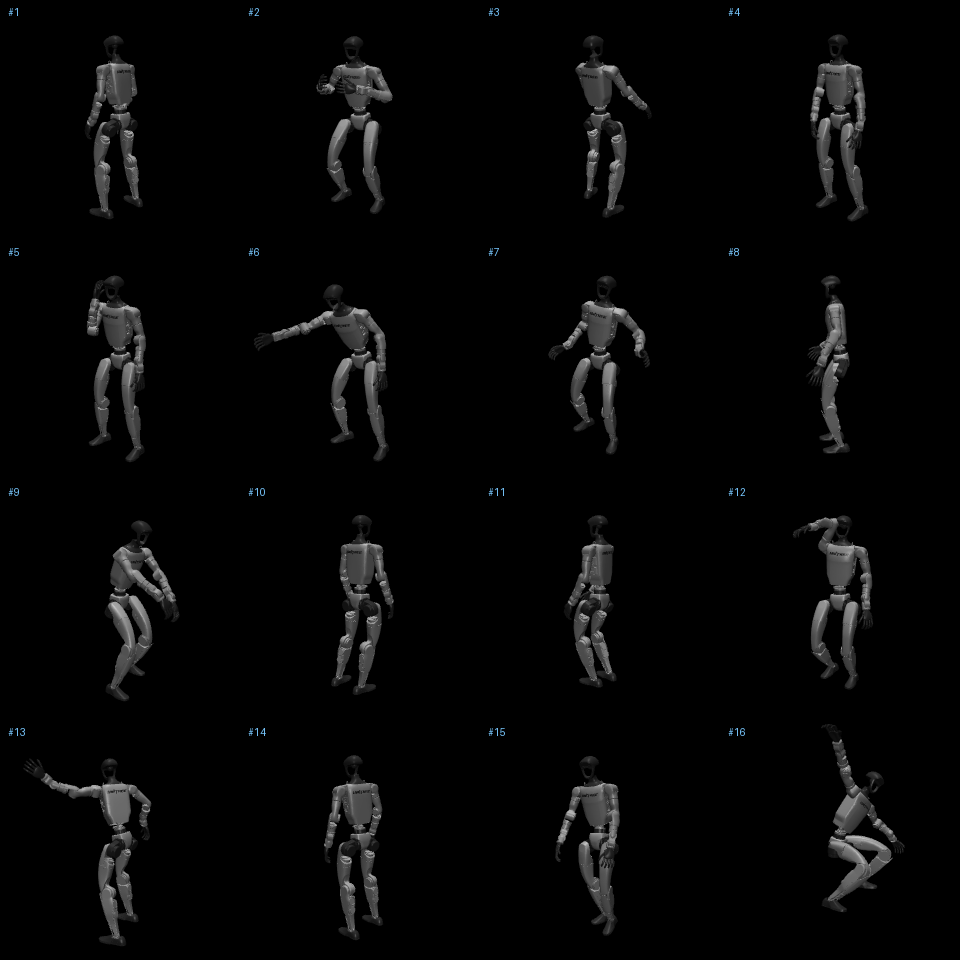
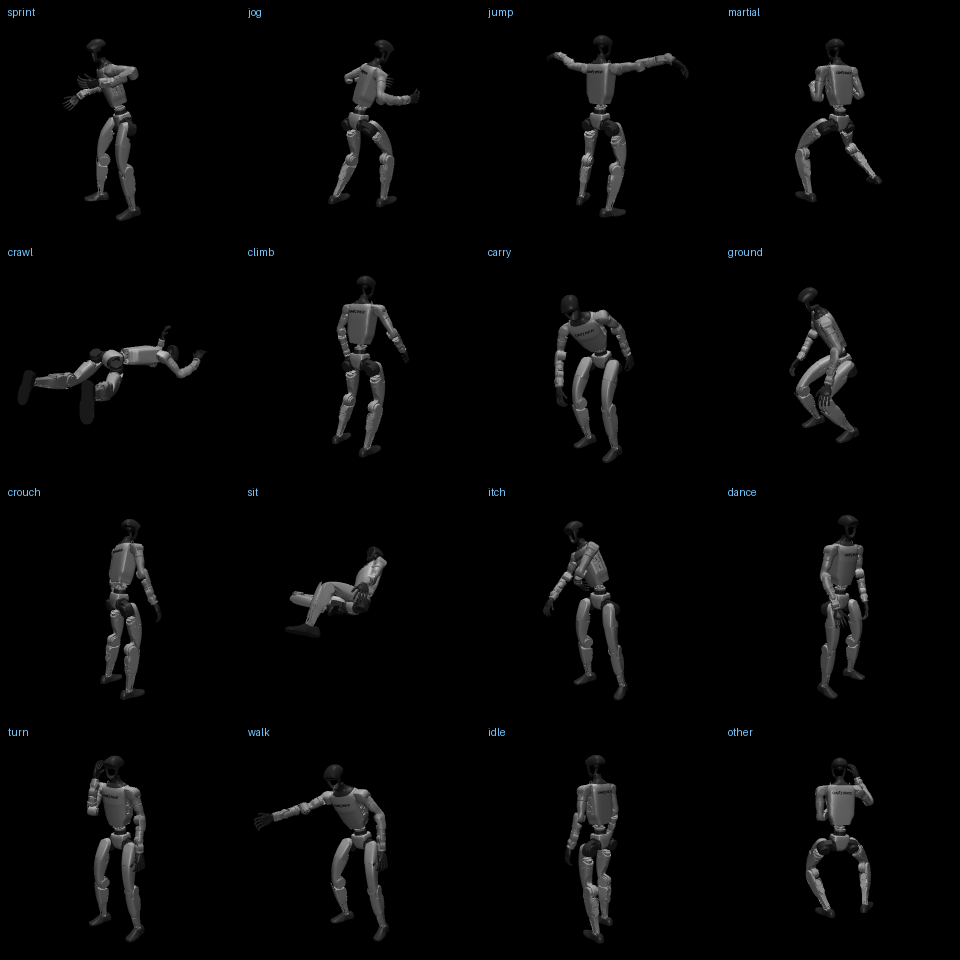
docs: 16 different motion categories in the header GIF, each the most dynamic of its kind
The header grid no longer samples clips at random. scripts/pick_grid_clips.py assigns every clip of the
evaluation subset a category from its name, measures amplitude from the reference data (peak root speed by
finite differences at 50 Hz, root height range, total joint range), normalises the three axes and takes the
most dynamic clip of each category first. Result: 16 clips, 16 distinct kinds of motion -- sprint (3.55 m/s
peak), jog, jump, martial arts, crawl, ladder climb, carrying, fall/get-up, crouch, sit, itch, dance, turn,
walk, idle, plus one unlabelled CMU sequence -- instead of sixteen variants of the same thing.

render_grid.py gained --clips-file so the selection is reproducible, and labels each cell with its
category. scripts/pick_grid_clips.py is in the repository, so the figure can be regenerated from the data.

Also included: the checkpoint loader fix found while rendering -- adding Policy.encoders["velocity"] made
older checkpoints fail load_state_dict with eleven missing keys; it is now non-strict for that prefix only
and still raises on any other mismatch.

diff --git a/scripts/pick_grid_clips.py b/scripts/pick_grid_clips.py
@@ -1,0 +1,137 @@
+"""Pick 16 clips that are both *large-amplitude* and *different in kind*.
+
+Ranking by a single amplitude score returns sixteen sprints, so each clip is first assigned a category
+from its name and the grid takes the most dynamic clip of each category. Amplitude is measured from the
+stored reference data, not guessed from the name: peak root speed (finite differences of the root body,
+50 Hz), root height range, and the total range of joint motion.
+
+    python scripts/pick_grid_clips.py --npz-dir <dir> --count 16 --out /tmp/grid_clips.txt
+"""
+
+from __future__ import annotations
+
+import argparse
+from pathlib import Path
+
+import numpy as np
+
+DT = 1.0 / 50.0  # the retargeted library is 50 Hz
+
+# first match wins; the specific words come before the generic ones
+CATEGORIES = (
+  ("sprint", ("sprint", "run_away", "run_ff", "panic_run", "titan_run", "_run_")),
+  ("jog", ("jog",)),
+  ("jump", ("jump", "leap", "hop")),
+  ("martial", ("kungfu", "kung_fu", "punch", "kick", "fight", "martial", "box")),
+  ("acrobatic", ("cartwheel", "flip", "handstand", "tumble", "hurdle", "spin")),
+  ("crawl", ("crawl",)),
+  ("climb", ("ladder", "climb")),
+  ("carry", ("lift", "crate", "carry", "throw", "catch", "chainsaw")),
+  ("throw", ("throw", "catch", "ball")),
+  ("labor", ("chainsaw", "lumber", "shovel", "dig", "hammer", "cutting")),
+  ("ground", ("ground", "floor", "faint", "stand_up", "get_up", "getup", "lie", "roll")),
+  ("crouch", ("crouch", "squat", "kneel")),
+  ("sit", ("sitting", "sit_", "sit__", "chair", "stool")),
+  ("itch", ("itch", "scratch", "rub")),
+  ("dance", ("dance", "chaines")),
+  ("turn", ("turn", "twist", "pivot")),
+  ("walk", ("walk", "sideway", "strafe", "backward")),
+  ("idle", ("idle", "stand", "breath", "sit")),
+)
+
+
+def category_of(name: str) -> str:
+  low = name.lower()
+  for label, keys in CATEGORIES:
+    if any(k in low for k in keys):
+      return label
+  return "other"
+
+
+def root_index(body_names) -> int:
+  names = [str(b).lower() for b in body_names]
+  for want in ("pelvis", "root", "torso", "hip"):
+    for i, n in enumerate(names):
+      if want in n:
+        return i
+  return 0
+
+
+def metrics(path: Path) -> dict[str, float] | None:
+  try:
+    d = np.load(path)
+    body_pos = d["body_pos_w"]
+    joint = d["joint_pos"]
+    names = d["body_names"]
+  except Exception:  # noqa: BLE001
+    return None
+  if body_pos.shape[0] < 40:
+    return None
+  root = body_pos[:, root_index(names)]
+  vel = np.diff(root[:, :2], axis=0) / DT
+  speed = float(np.linalg.norm(vel, axis=-1).max())
+  height = float(root[:, 2].max() - root[:, 2].min())
+  joint_range = float((np.percentile(joint, 97, axis=0) - np.percentile(joint, 3, axis=0)).sum())
+  return {"speed": speed, "height": height, "joint": joint_range, "frames": float(body_pos.shape[0])}
+
+
+def main() -> None:
+  ap = argparse.ArgumentParser()
+  ap.add_argument("--npz-dir", required=True)
+  ap.add_argument("--count", type=int, default=16)
+  ap.add_argument("--min-frames", type=int, default=120)
+  ap.add_argument("--per-category", type=int, default=2, help="only used when there are fewer categories than slots")
+  ap.add_argument("--out", default="/tmp/grid_clips.txt")
+  args = ap.parse_args()
+
+  rows = []
+  for f in sorted(Path(args.npz_dir).glob("*.npz")):
+    m = metrics(f)
+    if m is None or m["frames"] < args.min_frames:
+      continue
+    rows.append({"path": str(f), "cat": category_of(f.name), **m})
+  if not rows:
+    raise SystemExit("no eligible clips")
+
+  for key, weight in (("speed", 0.45), ("height", 0.30), ("joint", 0.25)):
+    vals = np.array([r[key] for r in rows], dtype=np.float64)
+    lo, hi = np.percentile(vals, 5), np.percentile(vals, 95)
+    span = max(hi - lo, 1e-6)
+    for r in rows:
+      r[f"n_{key}"] = float(np.clip((r[key] - lo) / span, 0.0, 1.0))
+    for r in rows:
+      r["score"] = r.get("score", 0.0) + weight * r[f"n_{key}"]
+
+  by_cat: dict[str, list[dict]] = {}
+  for r in rows:
+    by_cat.setdefault(r["cat"], []).append(r)
+  for group in by_cat.values():
+    group.sort(key=lambda r: -r["score"])
+
+  # one clip per category first, in the order the categories are declared
+  chosen: list[dict] = []
+  for label, _ in CATEGORIES:
+    if len(chosen) >= args.count:
+      break
+    if by_cat.get(label):
+      chosen.append(by_cat[label].pop(0))
+  # then allow a second clip from the most dynamic remaining categories
+  if len(chosen) < args.count:
+    rest = sorted(((label, g[0]) for label, g in by_cat.items() if g), key=lambda kv: -kv[1]["score"])
+    for label, r in rest:
+      if len(chosen) >= args.count:
+        break
+      if sum(1 for c in chosen if c["cat"] == label) < args.per_category:
+        chosen.append(r)
+        by_cat[label].remove(r)
+
+  Path(args.out).write_text("\n".join(f"{r['path']}\t{r['cat']}" for r in chosen) + "\n")
+  print(f"{'#':>2}  {'category':10s} {'speed':>6s} {'height':>7s} {'joint':>6s}  clip")
+  for i, r in enumerate(chosen, 1):
+    name = Path(r["path"]).name.replace(".csv.npz", "").replace(".npz", "")[:58]
+    print(f"{i:>2}  {r['cat']:10s} {r['speed']:6.2f} {r['height']:7.2f} {r['joint']:6.1f}  {name}")
+  print(f"\nwrote {args.out} ({len(chosen)} clips, {len({c['cat'] for c in chosen})} categories)")
+
+
+if __name__ == "__main__":
+  main()

diff --git a/scripts/render_grid.py b/scripts/render_grid.py
@@ -30,6 +30,7 @@ def main() -> None:
   ap.add_argument("--fps", type=int, default=25)
   ap.add_argument("--device", default="cuda:0")
   ap.add_argument("--seed", type=int, default=0)
+  ap.add_argument("--clips-file", default="", help="one 'path\\tlabel' per line; overrides the random pick")
   args = ap.parse_args()
 
   import mujoco
@@ -39,10 +40,22 @@ def main() -> None:
   from supermimic.envs.mdp.motion_library import discover_npz
   from supermimic.eval.benchmark import load_policy_from_checkpoint
 
-  npz = discover_npz(args.npz_dir)
-  rng = np.random.default_rng(args.seed)
-  picks = np.sort(rng.choice(len(npz), size=min(args.clips, len(npz)), replace=False))
-  files = [npz[i] for i in picks]
+  labels: list[str] = []
+  if args.clips_file:
+    for line in Path(args.clips_file).read_text().splitlines():
+      if not line.strip():
+        continue
+      parts = line.split("\t")
+      labels.append(parts[1].strip() if len(parts) > 1 else f"#{len(labels) + 1}")
+      # the listed paths stay in order
+      Path(args.clips_file)
+    files = [line.split("\t")[0].strip() for line in Path(args.clips_file).read_text().splitlines() if line.strip()]
+    npz = files
+  else:
+    npz = discover_npz(args.npz_dir)
+    rng = np.random.default_rng(args.seed)
+    picks = np.sort(rng.choice(len(npz), size=min(args.clips, len(npz)), replace=False))
+    files = [npz[i] for i in picks]
 
   env_args = SuperMimicEnvCfgArgs(
     npz_files=files,
@@ -70,14 +83,12 @@ def main() -> None:
   cmd.forced_frame[:] = lib.clip_start[torch.arange(n, device=args.device)]
 
   def short_name(path: str, index: int) -> str:
-    # the 300-clip subset carries cryptic retarget ids; a cell number is more legible than a clipped id
-    return f"#{index + 1}"
+    # prefer the category label from --clips-file; otherwise the retarget id is unreadable, so number it
+    return labels[index] if index < len(labels) else f"#{index + 1}"
 
   names = [short_name(f, i) for i, f in enumerate(files)]
   obs, _ = env.reset()
 
-  # qpos (n, 36) per step, in the engine's state layout
-  traj = np.zeros((args.steps, n, 36), dtype=np.float32)
   # qpos (n, 36) per step, in the engine state layout
   traj = np.zeros((args.steps, n, 36), dtype=np.float32)
 

diff --git a/README_zh.md b/README_zh.md
@@ -8,8 +8,9 @@ MuJoCo Warp 上的复现；并对"如何声明一个 SuperMimic 任务"做了重
   <img src="docs/assets/grid.gif" width="820">
 </p>
 
-<p align="center"><em>同一个策略，16 条来自 300 条评测子集的动作。渲染方式：把策略在仿真中的轨迹回放到
-MuJoCo 里（<code>scripts/render_grid.py</code>）。</em></p>
+<p align="center"><em>同一个策略，<b>16 种不同类型的动作</b>——冲刺、慢跑、跳跃、武术、爬行、爬梯、搬运、倒地起身、下蹲、坐姿、
+舞蹈、转身、行走等，每类挑选幅度最大的一条（<code>scripts/pick_grid_clips.py</code>）。渲染方式：把策略在仿真中的
+轨迹回放到 MuJoCo 里（<code>scripts/render_grid.py</code>）。</em></p>
 
 | 项目 | 结果 |
 |---|---|

diff --git a/README.md b/README.md
@@ -9,8 +9,10 @@ Model](https://arxiv.org/abs/2610.28480)** (CoRL 2026) on the Unitree G1 in
   <img src="docs/assets/grid.gif" width="820">
 </p>
 
-<p align="center"><em>One policy, 16 motions from the 300-clip evaluation subset. Rendered by replaying the
-policy's simulated trajectories in MuJoCo (<code>scripts/render_grid.py</code>).</em></p>
+<p align="center"><em>One policy, <b>16 different kinds of motion</b> -- sprint, jog, jump, martial arts, crawl, ladder climb, carrying,
+fall/get-up, crouch, sit, dance, turn, walk and more -- each chosen as the most dynamic clip of its category
+(<code>scripts/pick_grid_clips.py</code>). Rendered by replaying the policy's simulated trajectories in MuJoCo
+(<code>scripts/render_grid.py</code>).</em></p>
 
 | | |
 |---|---|
